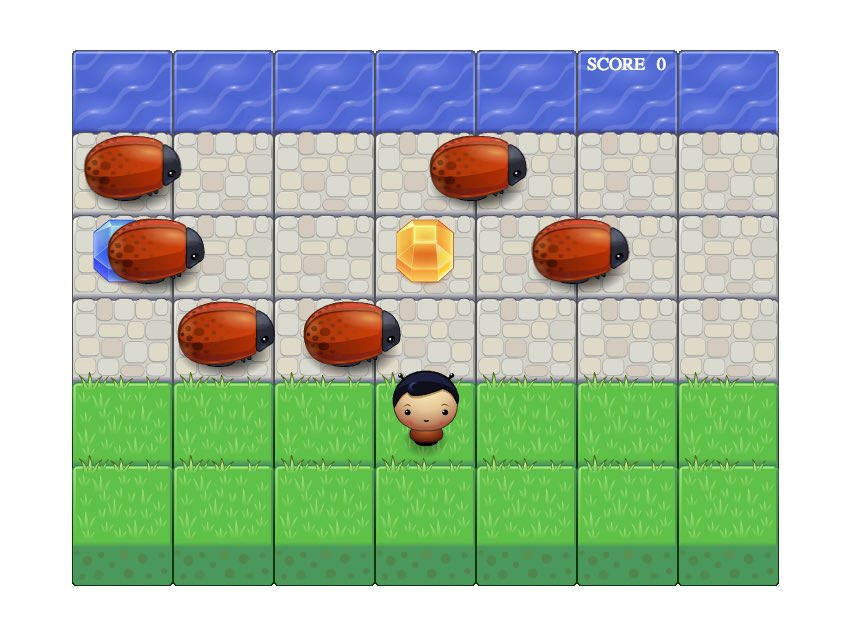
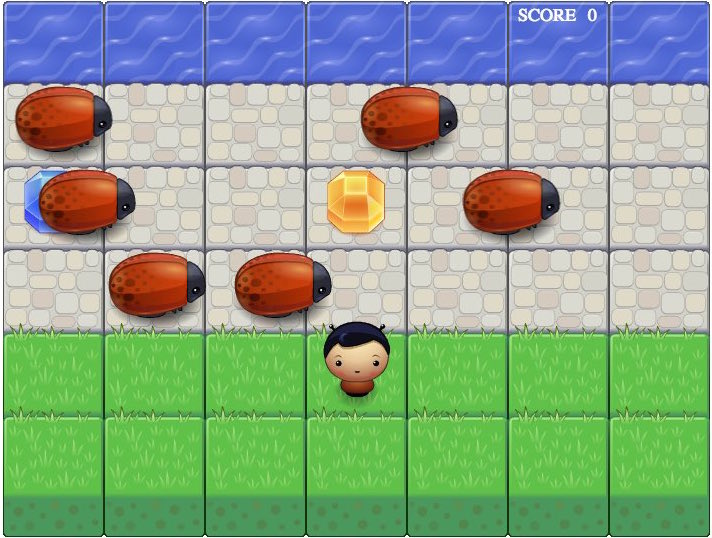
refactor: added pictures for pizza project

diff --git a/index.html b/index.html
@@ -152,7 +152,7 @@
 				<img class="img-responsive project-img"
 				src="images/FroggerPic.jpg"
 				sizes="(max-width: 768px) 100vw, (min-width: 769px) 40vw"
-				srcset="images/FroggerPic.jpg 847w"
+				srcset="images/FroggerPic.jpg 712w"
 				alt="arcade game placeholder">
 				<h3 class="text-uppercase">Classic Arcade Game</h3>
 				<p>A clone of the classic arcade game Frogger built using Object-Oriented JavaScript</p>
@@ -160,9 +160,9 @@
 			</article>
 			<article class="col-xs-12 col-sm-6 bottom-spacing">
 				<img class="img-responsive project-img"
-				src="http://placehold.it/768x576"
+				src="images/pizza-medium.jpg"
 				sizes="(max-width: 768px) 100vw, (min-width: 769px) 40vw"
-				srcset="http://placehold.it/768x576 768w, http://placehold.it/1536x1152 1536w"
+				srcset="images/pizza-medium.jpg 768w, images/pizza-large.jpg 1436w"
 				alt="website optimization placeholder">
 				<h3 class="text-uppercase">Website Optimization</h3>
 				<p>Optimized website using Chrome Developer Tools and Google's PageSpeed to improve performance to 60 fps</p>
